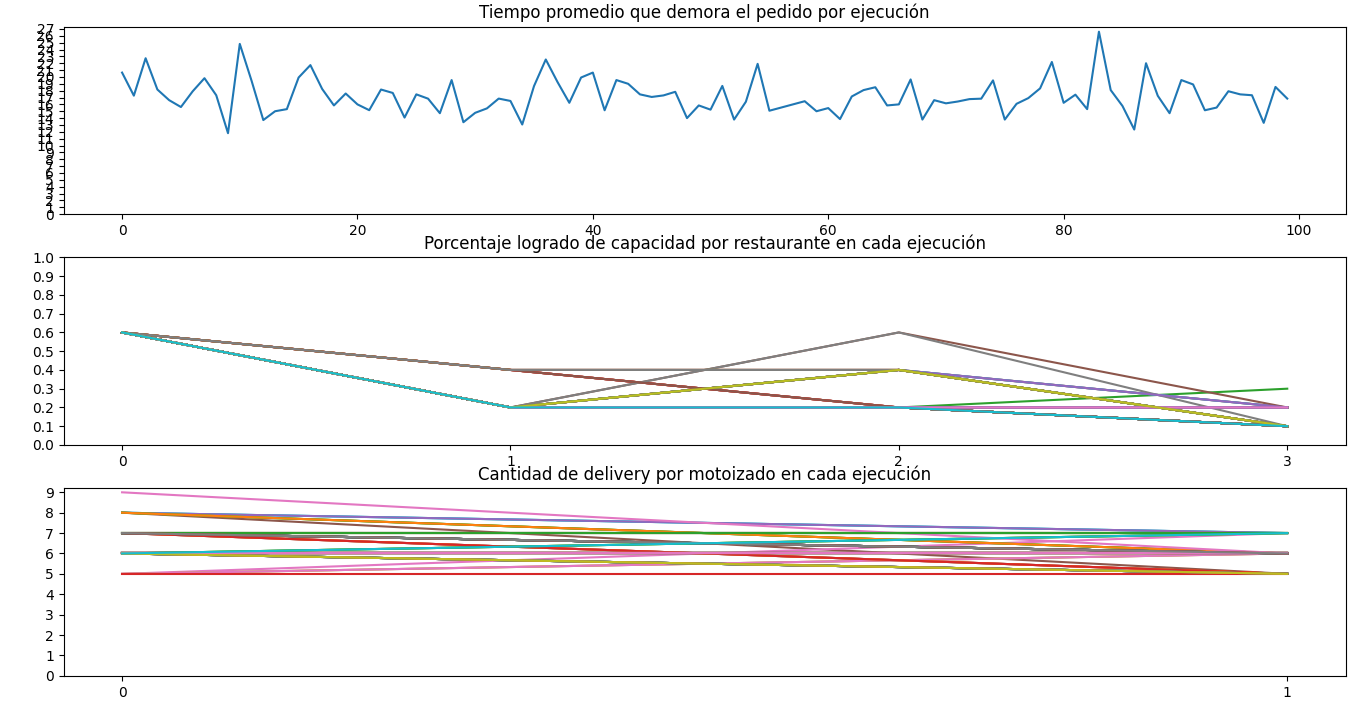
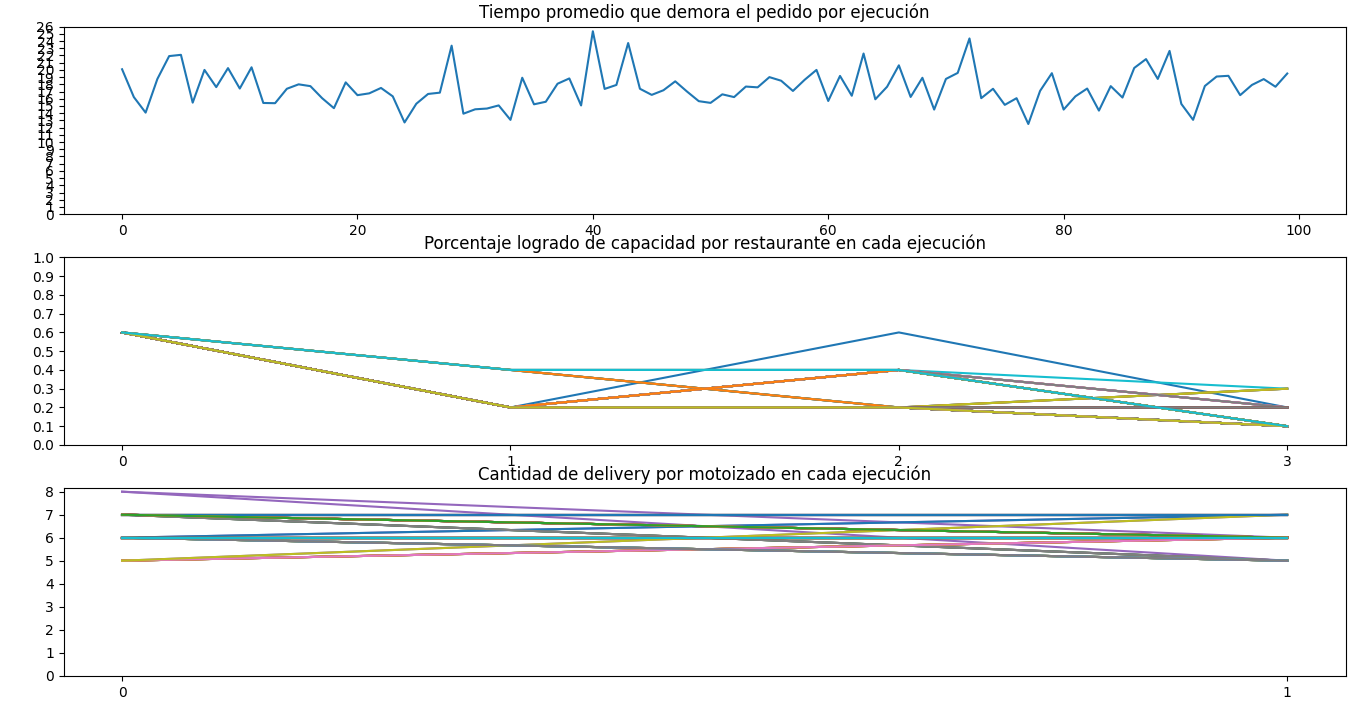
proyecto con interacciones

diff --git a/main_nearer.py b/main_nearer.py
@@ -167,7 +167,7 @@ class Agent:
         self.id = _id
         self.position = position
         self.state = state
-        self.isAlive = True
+        
 
     def to_string(self):
         pass
@@ -530,27 +530,25 @@ class App:
         game = Game(800, 600, self.grid, "Hola mundo")
         
         for i in range(steps):
-            time.sleep(0.5)
+            # time.sleep(0.5)
             # Render pygame
-            game.events_check()
-            game.print_system()
-            pygame.display.update()
+            # game.events_check()
+            # game.print_system()
+            # pygame.display.update()
 
 
-            print('-' * 30)
-            print(timetostring(i))
+            # print('-' * 30)
+            # print(timetostring(i))
 
             for a in agentList:
                 a.decide()
             for a in agentList:
                 a.update()
 
-            for a in agentList:
-                if a.isAlive == False:
-                    agentList.remove(a)
+           
 
-            for a in agentList:
-                a.to_state()
+            # for a in agentList:
+            #     a.to_state()
 
         self.time_food()
         self.time_restaurant()
@@ -629,9 +627,9 @@ def print_general_status(steps, nrestaurants, ndistributors):
 def main():
     global food_list, restaurant_list, distributor_list, agentList, graph, graphNodes
     
-    ncustomers = 5
-    nrestaurants = 5
-    ndistributors = 2
+    ncustomers = 2000
+    nrestaurants = 100
+    ndistributors = 300
     #proportion frecuencia
     #70%: 32 ticks (8 horas)
     #20%: 48 ticks (12 horas)
@@ -640,9 +638,10 @@ def main():
     #proporcion de restaurantes con capacidad
     #70%: 5 food capacidad
     #30%: 1 food capacidad
-    proportionRestaurant = [(0.7, 5), (0.3, 10)]
+    #proportionRestaurant = [(0.7, 5), (0.3, 10)]
+    proportionRestaurant = [(1.0, 10)]
     
-    steps = 100
+    steps = 1
     for _ in range(steps): #10000 veces correr el programa
         food_list = []
         restaurant_list = []
@@ -650,10 +649,10 @@ def main():
         agentList = []
         graph = []
         graphNodes = []
-        app = App(10, 0.3, True)    
-        ncustomers = 5
-        nrestaurants = 5
-        ndistributors = 2
+        app = App(100, 0.3, True)    
+        ncustomers = 2000
+        nrestaurants = 100
+        ndistributors = 300
 
         ncustomers = app.addCustomers(ncustomers, proportionCustomer)
         nrestaurants = app.addRestaurants(nrestaurants, proportionRestaurant)

diff --git a/main_min.py b/main_min.py
@@ -167,7 +167,6 @@ class Agent:
         self.id = _id
         self.position = position
         self.state = state
-        self.isAlive = True
 
     def to_string(self):
         pass
@@ -532,27 +531,24 @@ class App:
         game = Game(800, 600, self.grid, "Hola mundo")
         
         for i in range(steps):
-            time.sleep(0.5)
+            # time.sleep(0.5)
             #Render pygame
-            game.events_check()
-            game.print_system()
-            pygame.display.update()
+            # game.events_check()
+            # game.print_system()
+            # pygame.display.update()
 
 
-            print('-' * 30)
-            print(timetostring(i))
+            # print('-' * 30)
+            # print(timetostring(i))
 
             for a in agentList:
                 a.decide()
             for a in agentList:
                 a.update()
 
-            for a in agentList:
-                if a.isAlive == False:
-                    agentList.remove(a)
-
-            for a in agentList:
-                a.to_state()
+            
+            # for a in agentList:
+            #     a.to_state()
 
         self.time_food()
         self.time_restaurant()
@@ -631,9 +627,9 @@ def print_general_status(steps, nrestaurants, ndistributors):
 def main():
     global food_list, restaurant_list, distributor_list, agentList, graph, graphNodes
     
-    ncustomers = 5
-    nrestaurants = 5
-    ndistributors = 2
+    ncustomers = 2000
+    nrestaurants = 100
+    ndistributors = 300
     #proportion frecuencia
     #70%: 32 ticks (8 horas)
     #20%: 48 ticks (12 horas)
@@ -642,7 +638,8 @@ def main():
     #proporcion de restaurantes con capacidad
     #70%: 5 food capacidad
     #30%: 1 food capacidad
-    proportionRestaurant = [(0.7, 5), (0.3, 10)]
+    #proportionRestaurant = [(0.7, 5), (0.3, 10)]
+    proportionRestaurant = [(1.0, 10)]
     
     steps = 100
     for _ in range(steps): #10000 veces correr el programa
@@ -652,10 +649,10 @@ def main():
         agentList = []
         graph = []
         graphNodes = []
-        app = App(10, 0.3, True)    
-        ncustomers = 5
-        nrestaurants = 5
-        ndistributors = 2
+        app = App(100, 0.3, True)    
+        ncustomers = 2000
+        nrestaurants = 100
+        ndistributors = 300
 
         ncustomers = app.addCustomers(ncustomers, proportionCustomer)
         nrestaurants = app.addRestaurants(nrestaurants, proportionRestaurant)

diff --git a/main.py b/main.py
@@ -167,7 +167,6 @@ class Agent:
         self.id = _id
         self.position = position
         self.state = state
-        self.isAlive = True
 
     def to_string(self):
         pass
@@ -530,11 +529,11 @@ class App:
         game = Game(800, 600, self.grid, "Hola mundo")
         
         for i in range(steps):
-            time.sleep(0.5)
+            # time.sleep(0.5)
             # Render pygame
-            game.events_check()
-            game.print_system()
-            pygame.display.update()
+            # game.events_check()
+            # game.print_system()
+            # pygame.display.update()
 
 
             #print('-' * 30)
@@ -545,12 +544,10 @@ class App:
             for a in agentList:
                 a.update()
 
-            for a in agentList:
-                if a.isAlive == False:
-                    agentList.remove(a)
+            
 
-            for a in agentList:
-                a.to_state()
+            # for a in agentList:
+            #     a.to_state()
 
         self.time_food()
         self.time_restaurant()
@@ -629,9 +626,9 @@ def print_general_status(steps, nrestaurants, ndistributors):
 def main():
     global food_list, restaurant_list, distributor_list, agentList, graph, graphNodes
     
-    ncustomers = 5
-    nrestaurants = 5
-    ndistributors = 2
+    ncustomers = 2000
+    nrestaurants = 100
+    ndistributors = 300
     #proportion frecuencia
     #70%: 32 ticks (8 horas)
     #20%: 48 ticks (12 horas)
@@ -640,9 +637,10 @@ def main():
     #proporcion de restaurantes con capacidad
     #70%: 5 food capacidad
     #30%: 1 food capacidad
-    proportionRestaurant = [(0.7, 5), (0.3, 10)]
+    #proportionRestaurant = [(0.7, 5), (0.3, 10)]
+    proportionRestaurant = [(1.0, 10)]
     
-    steps = 100
+    steps = 1
     for _ in range(steps): #10000 veces correr el programa
         food_list = []
         restaurant_list = []
@@ -650,10 +648,10 @@ def main():
         agentList = []
         graph = []
         graphNodes = []
-        app = App(10, 0.3, True)    
-        ncustomers = 5
-        nrestaurants = 5
-        ndistributors = 2
+        app = App(100, 0.3, True)    
+        ncustomers = 2000
+        nrestaurants = 100
+        ndistributors = 300
 
         ncustomers = app.addCustomers(ncustomers, proportionCustomer)
         nrestaurants = app.addRestaurants(nrestaurants, proportionRestaurant)
